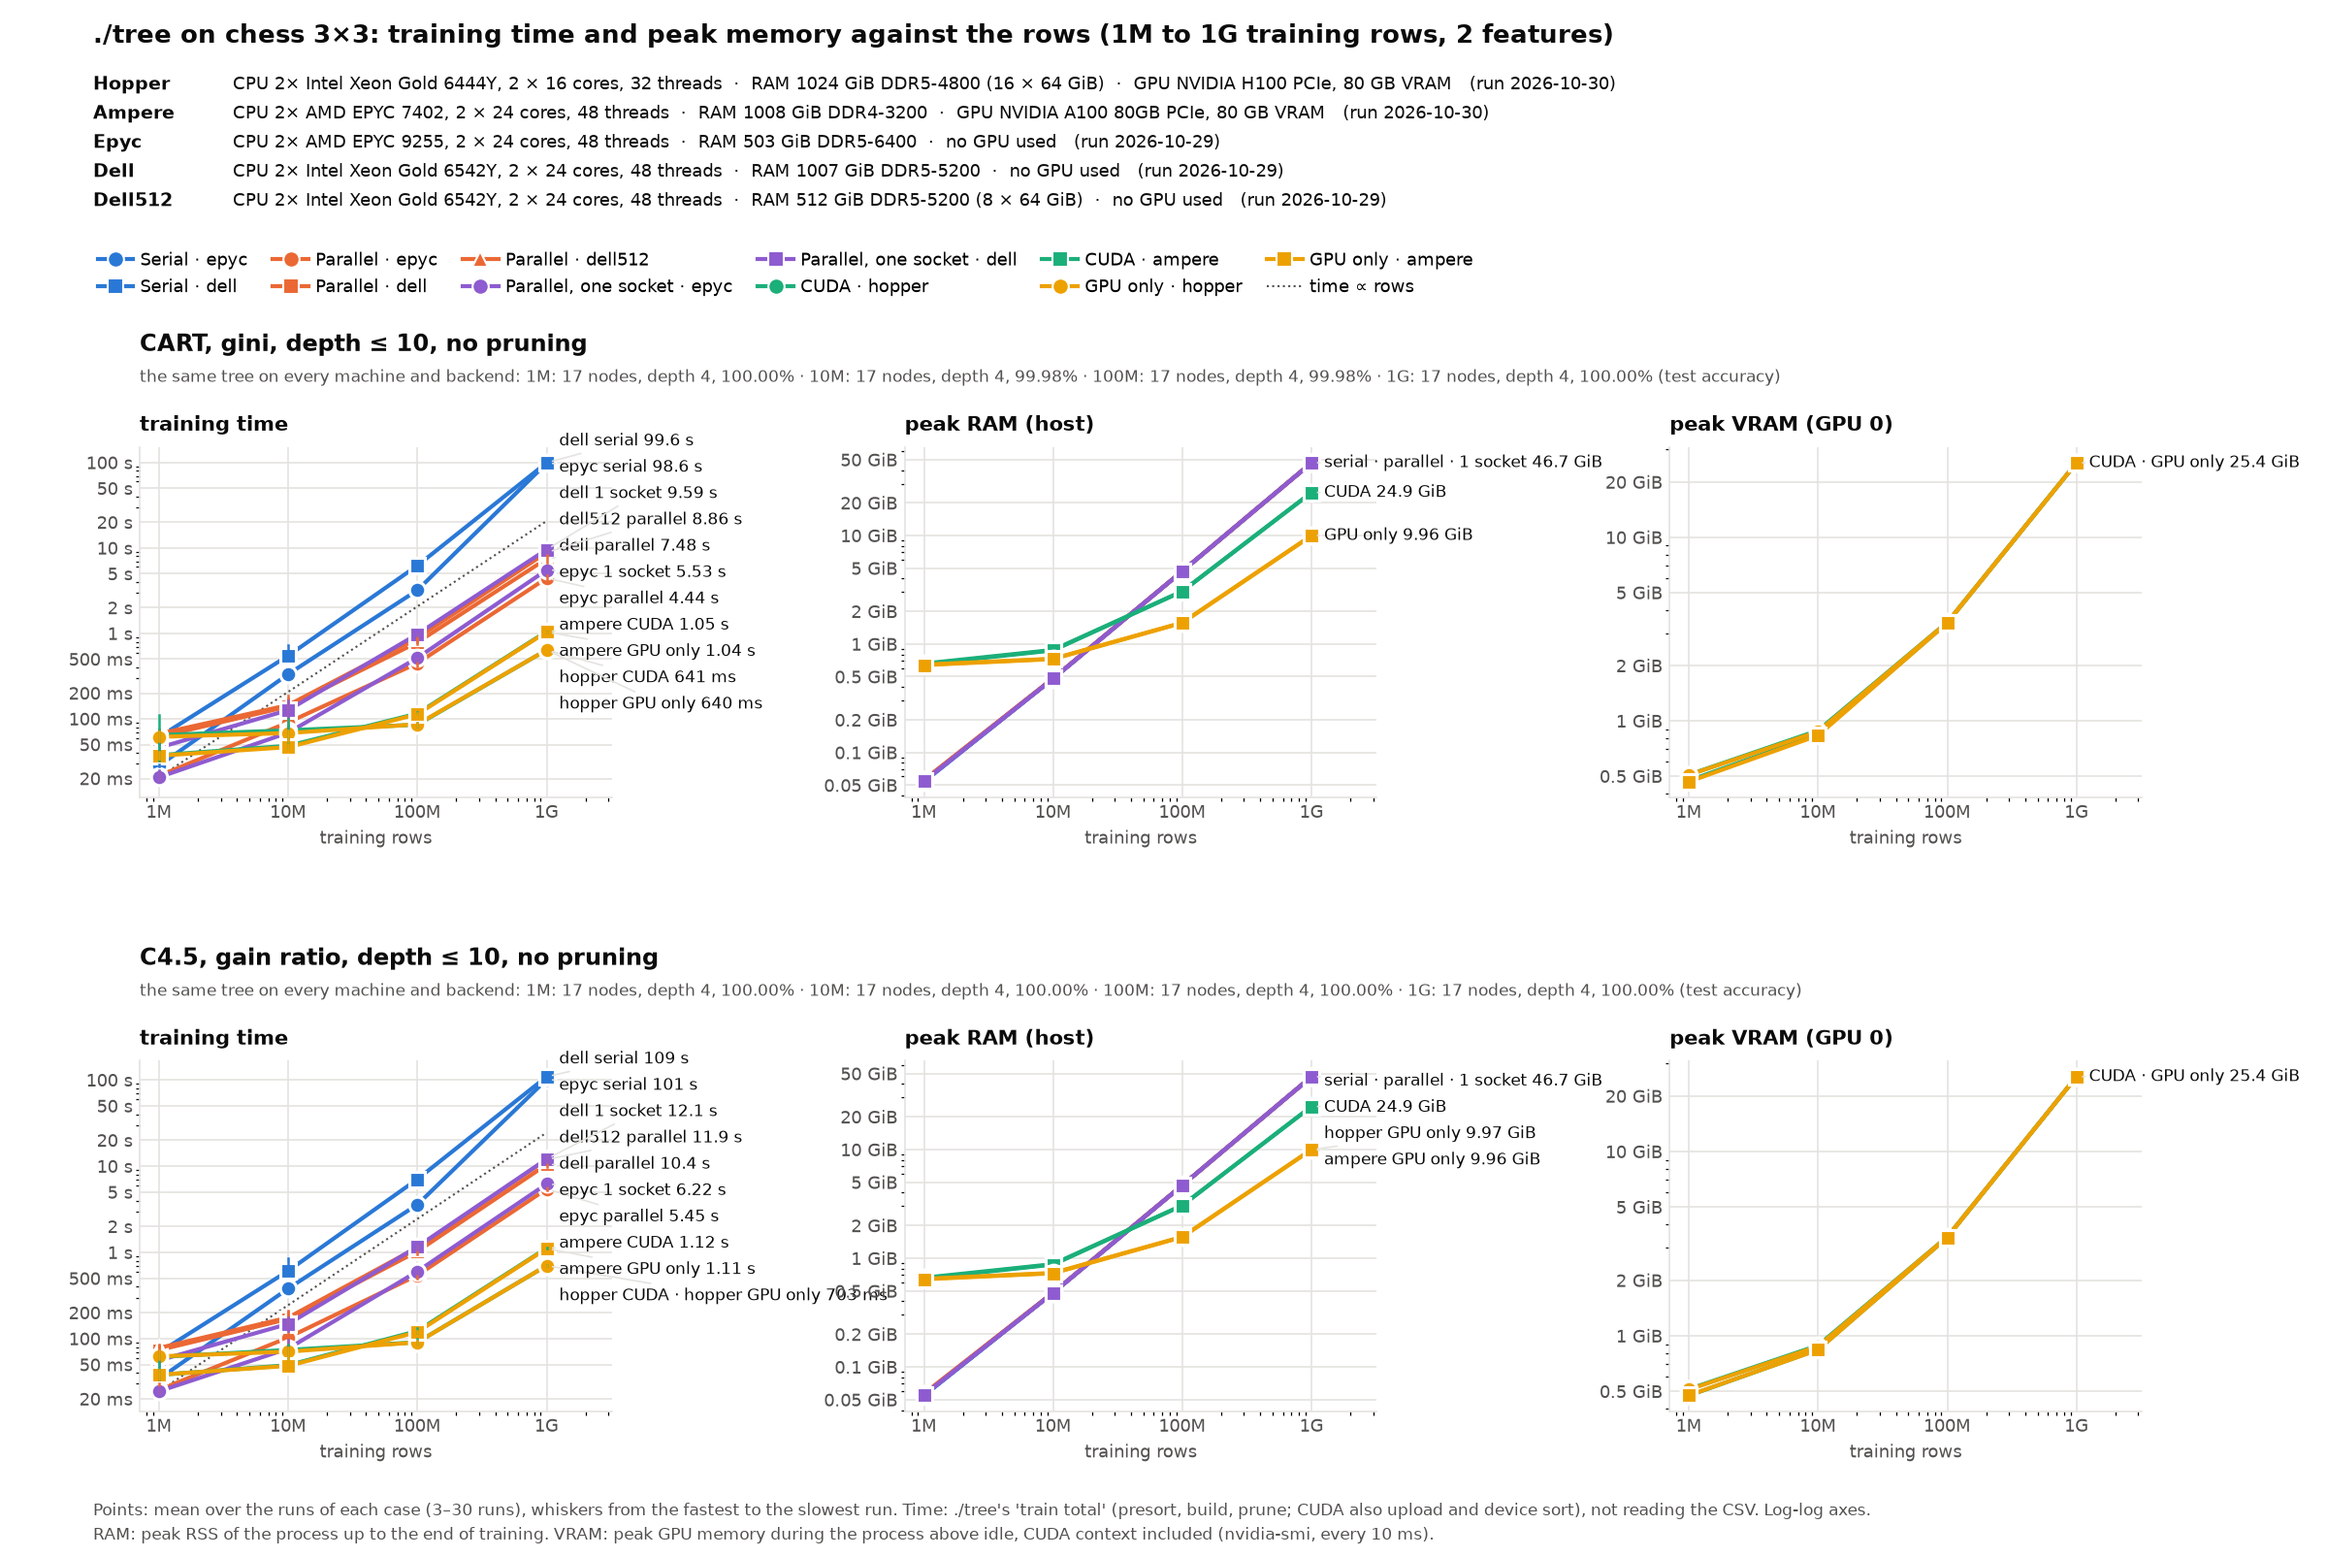
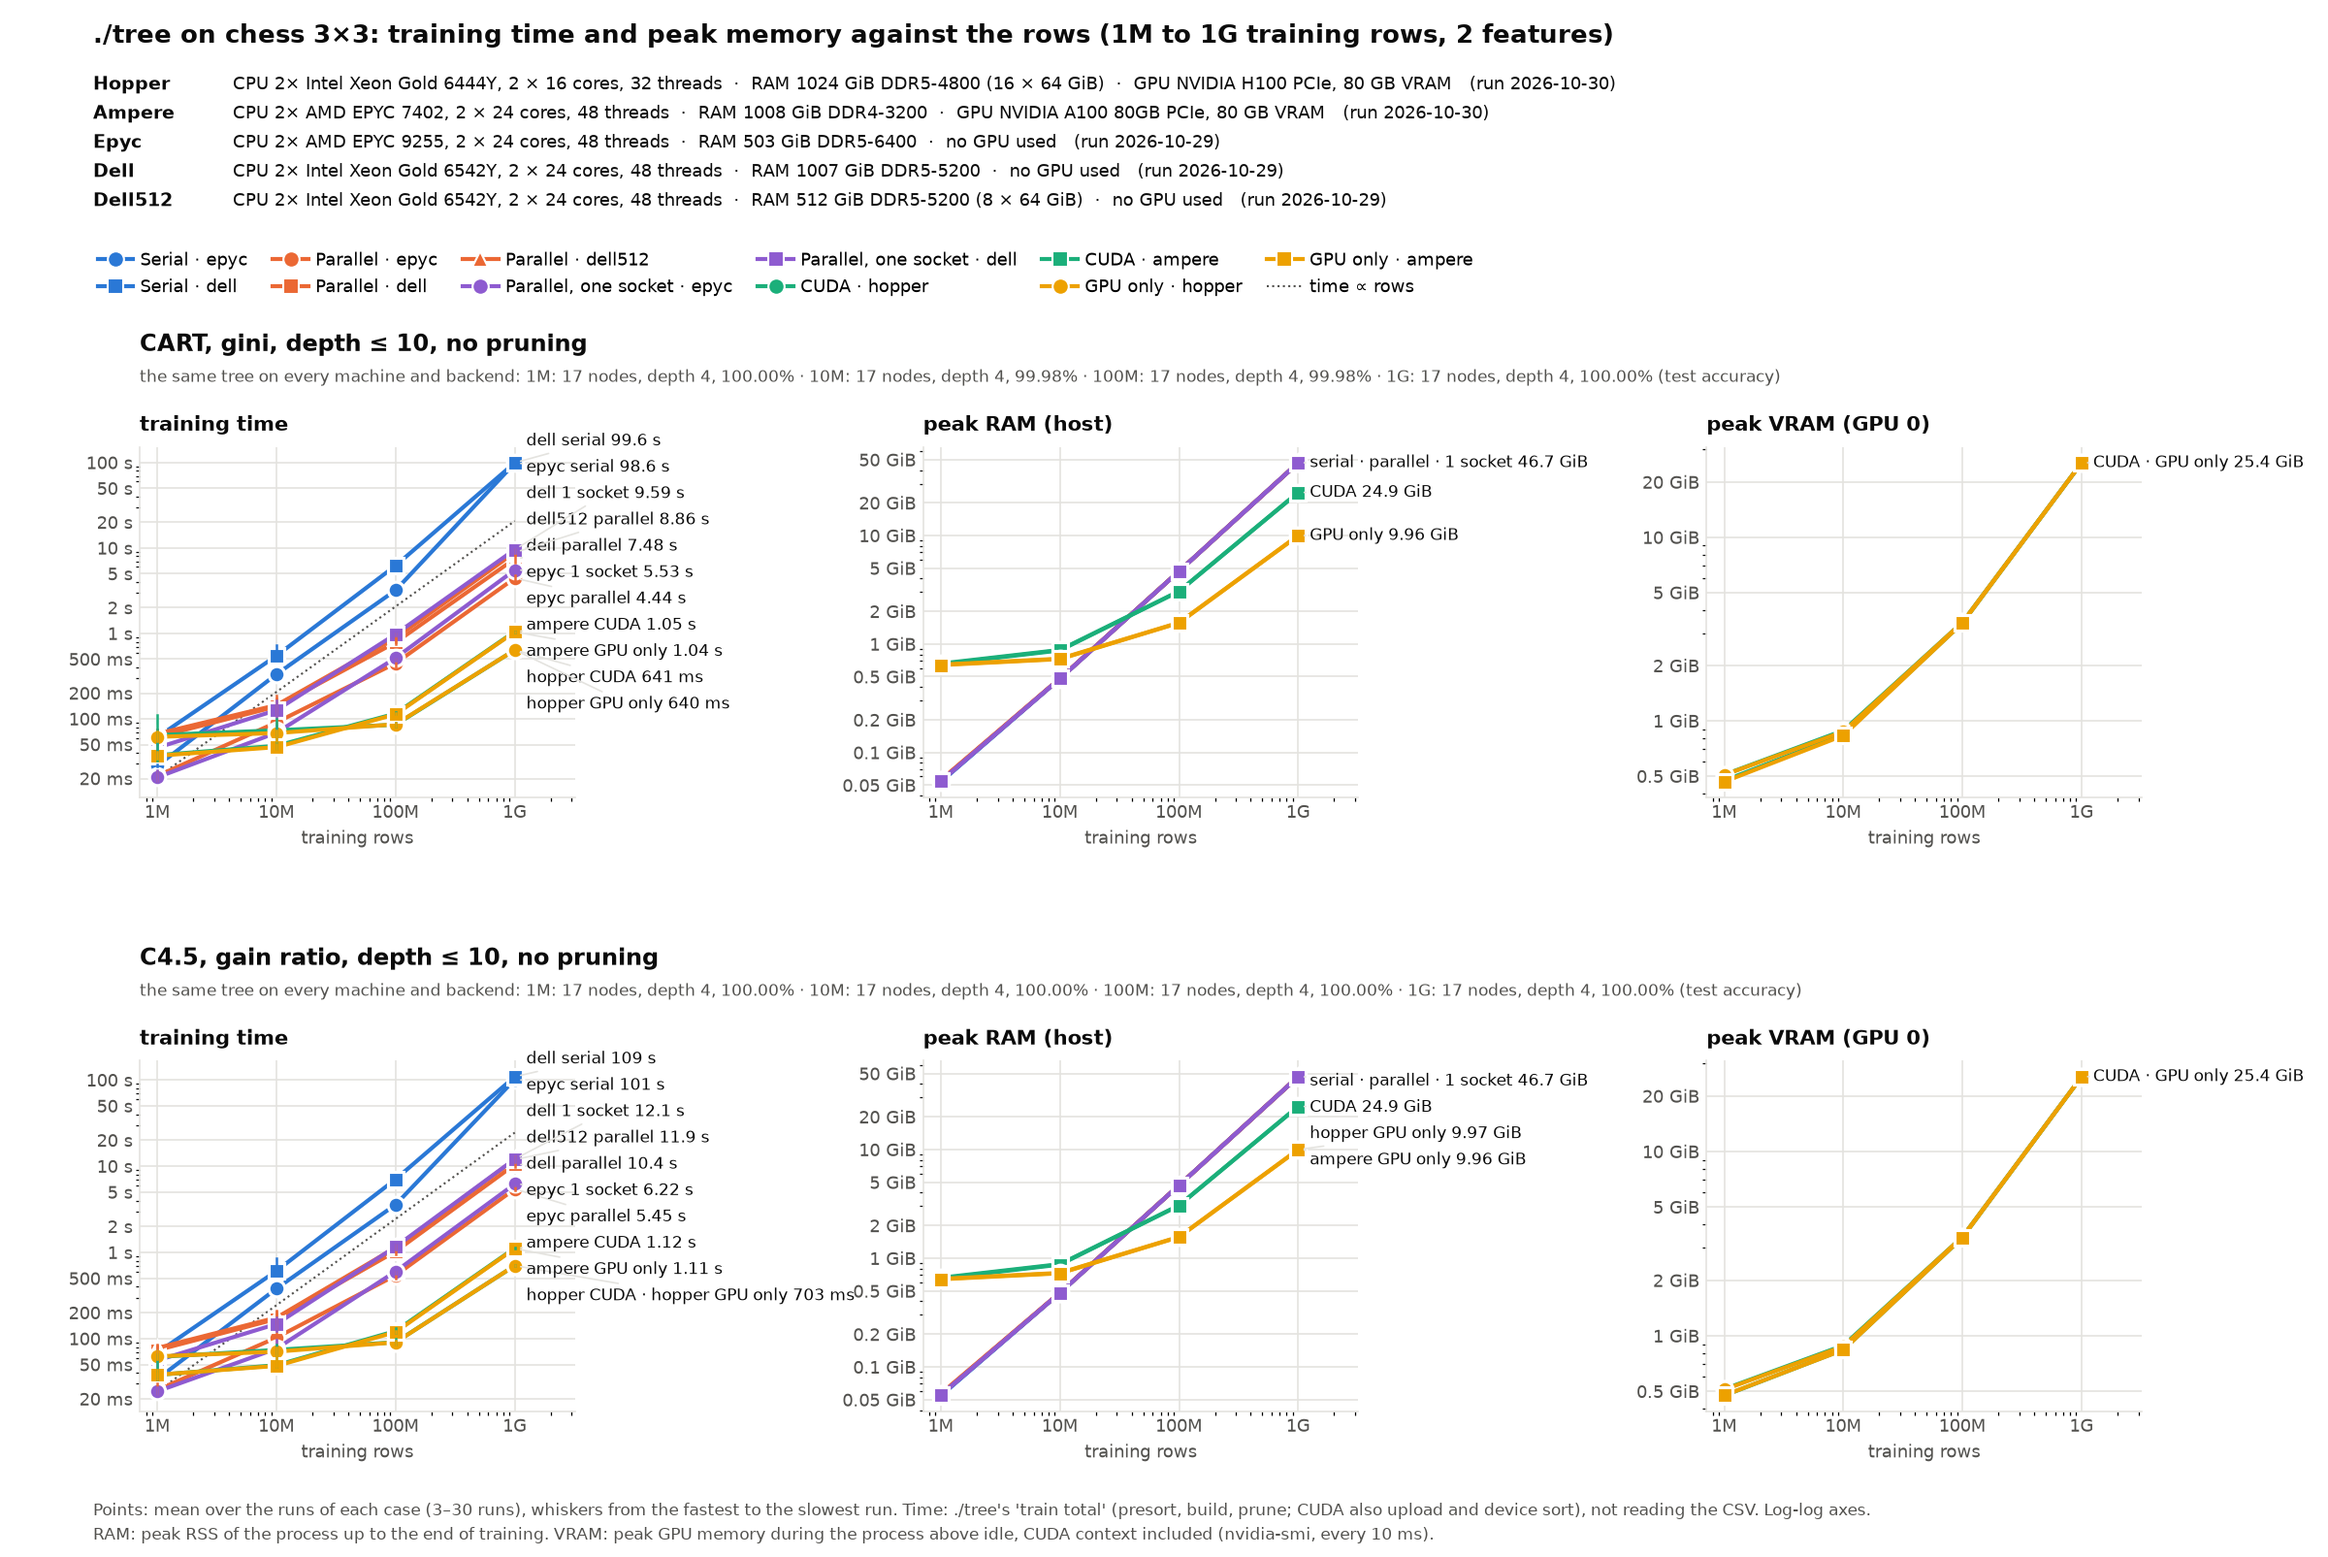
rows_chart.py: room for the end labels between the panels

diff --git a/bench/rows_chart.py b/bench/rows_chart.py
@@ -120,7 +120,7 @@ def main():
                ("ram", "peak RAM (host)", gib_label),
                ("vram", "peak VRAM (GPU 0)", gib_label)]
     fig, axes = plt.subplots(len(protocols), 3, figsize=(16, 1.9 + 4.4 * len(protocols)),
-                             squeeze=False, gridspec_kw={"wspace": 0.62, "hspace": 0.75})
+                             squeeze=False, gridspec_kw={"wspace": 0.8, "hspace": 0.75})
     all_rows = sorted({e["rows"] for e in entries})
     headers = []  # (protocol title, its trees) above each row of panels
     for row, protocol in enumerate(protocols):
